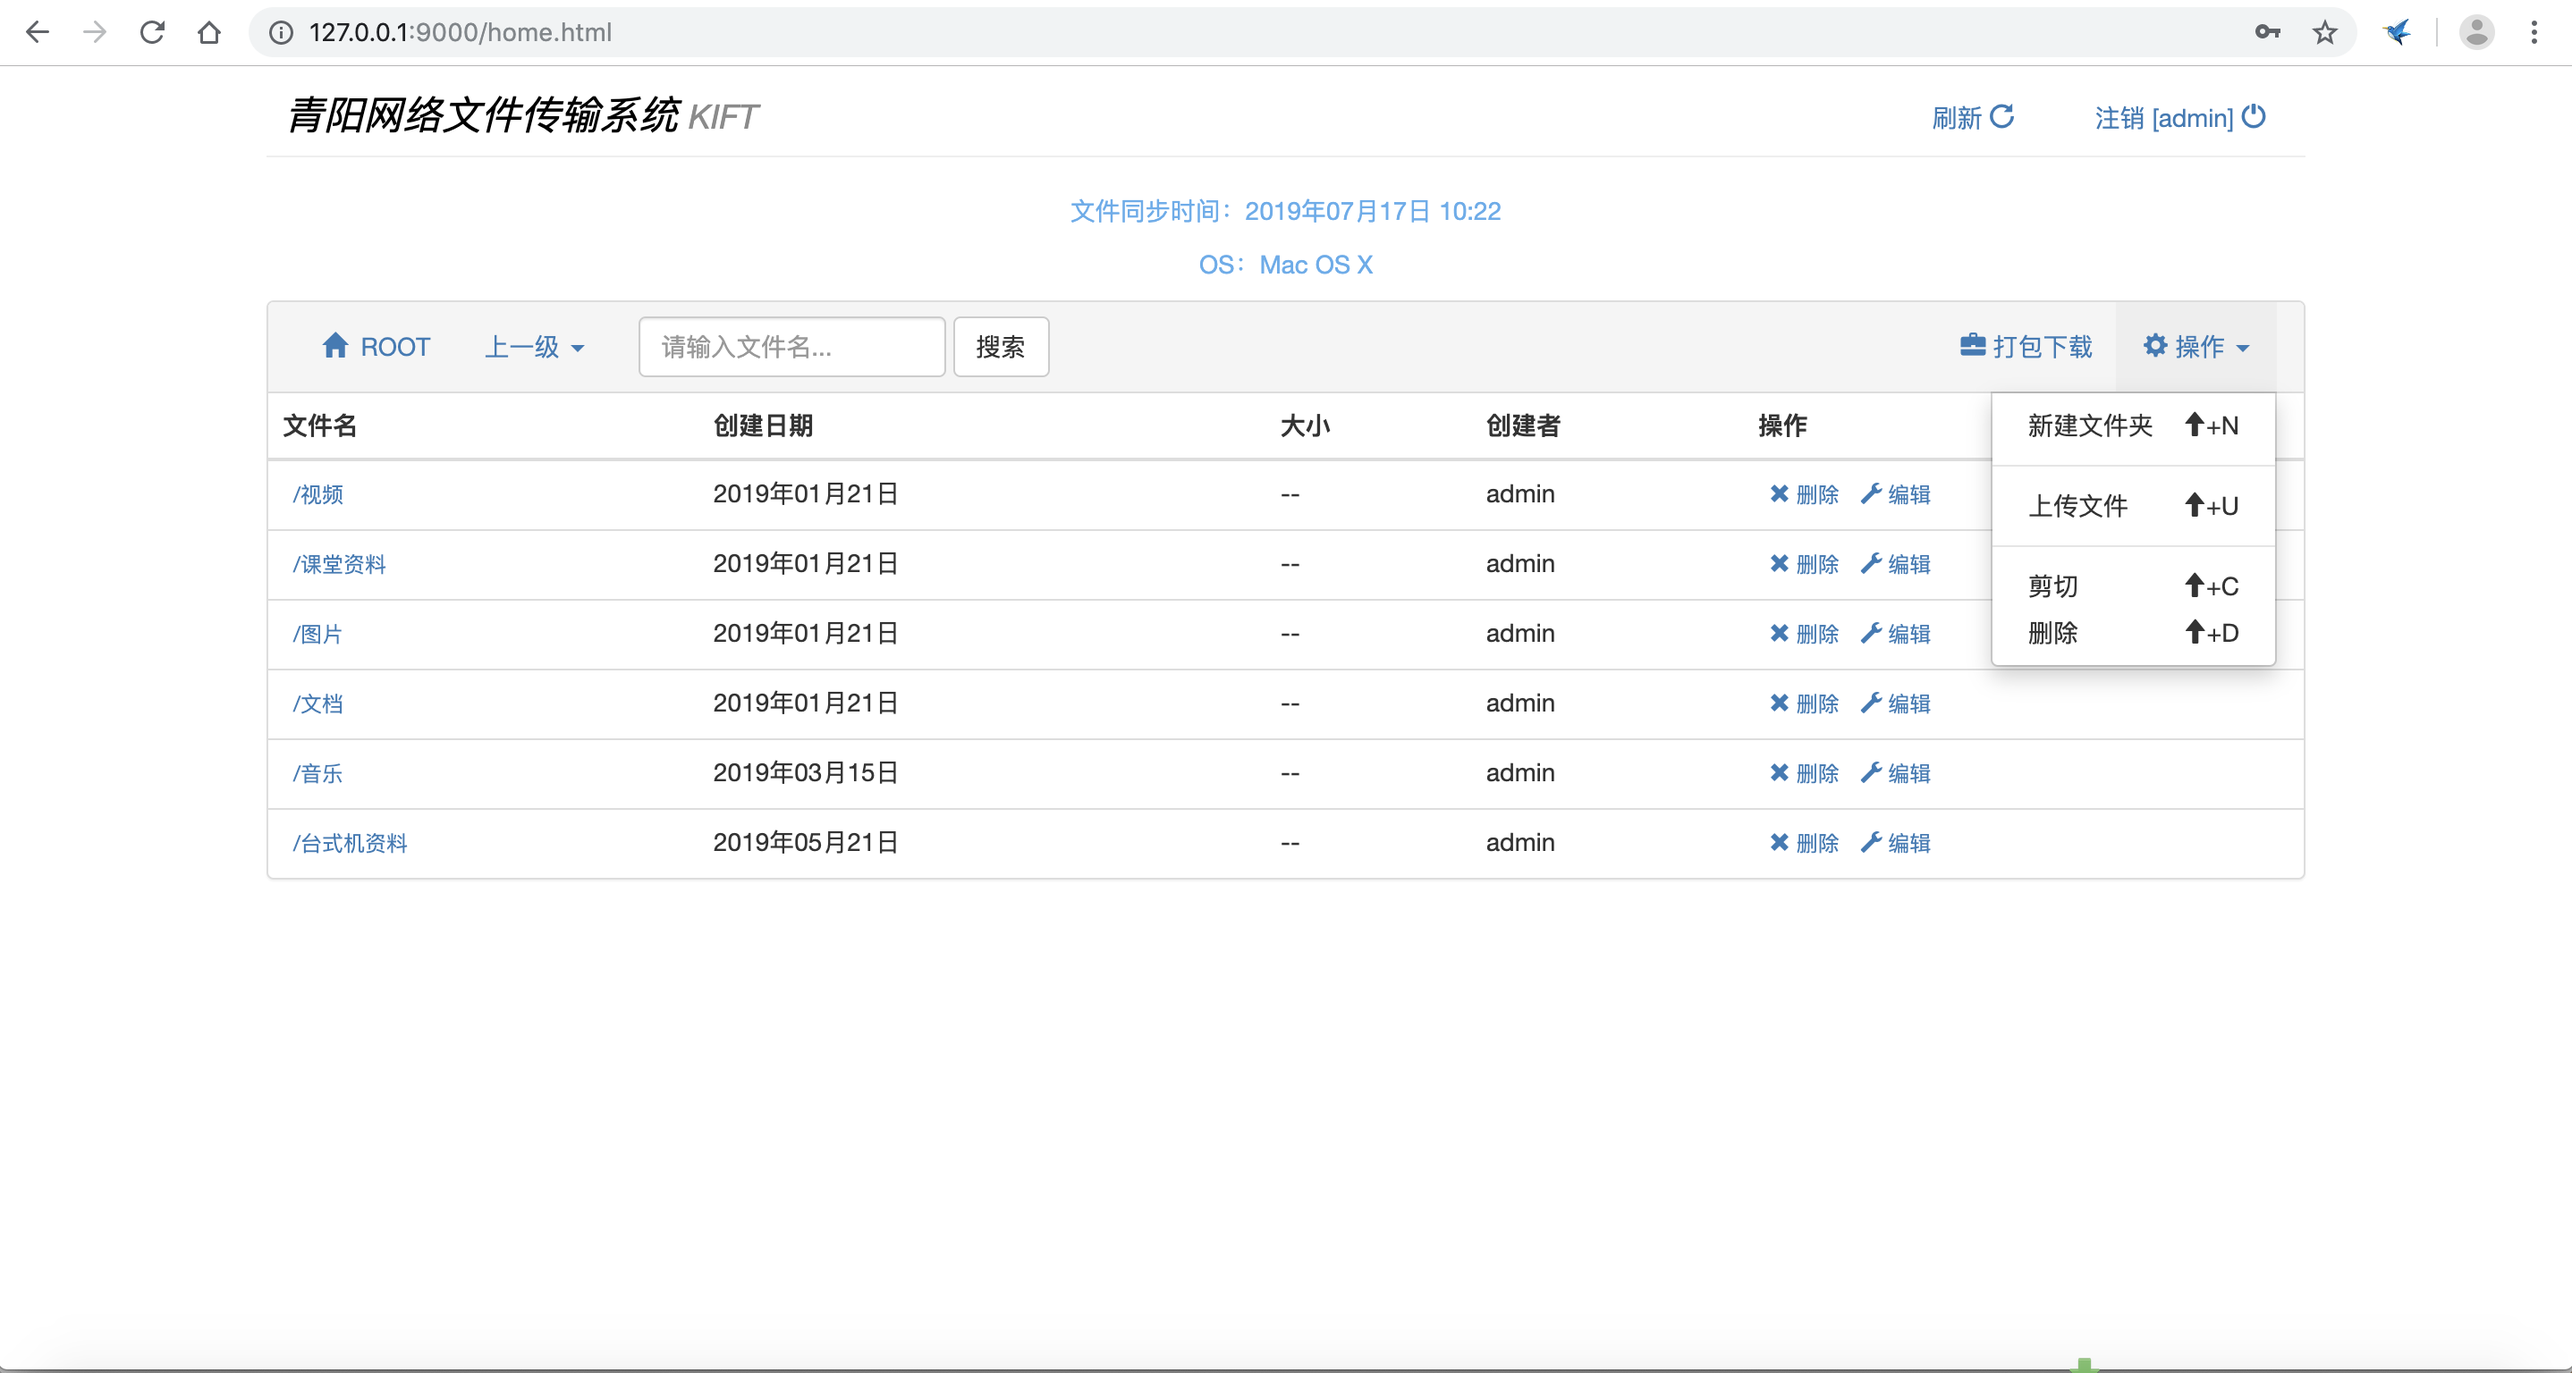
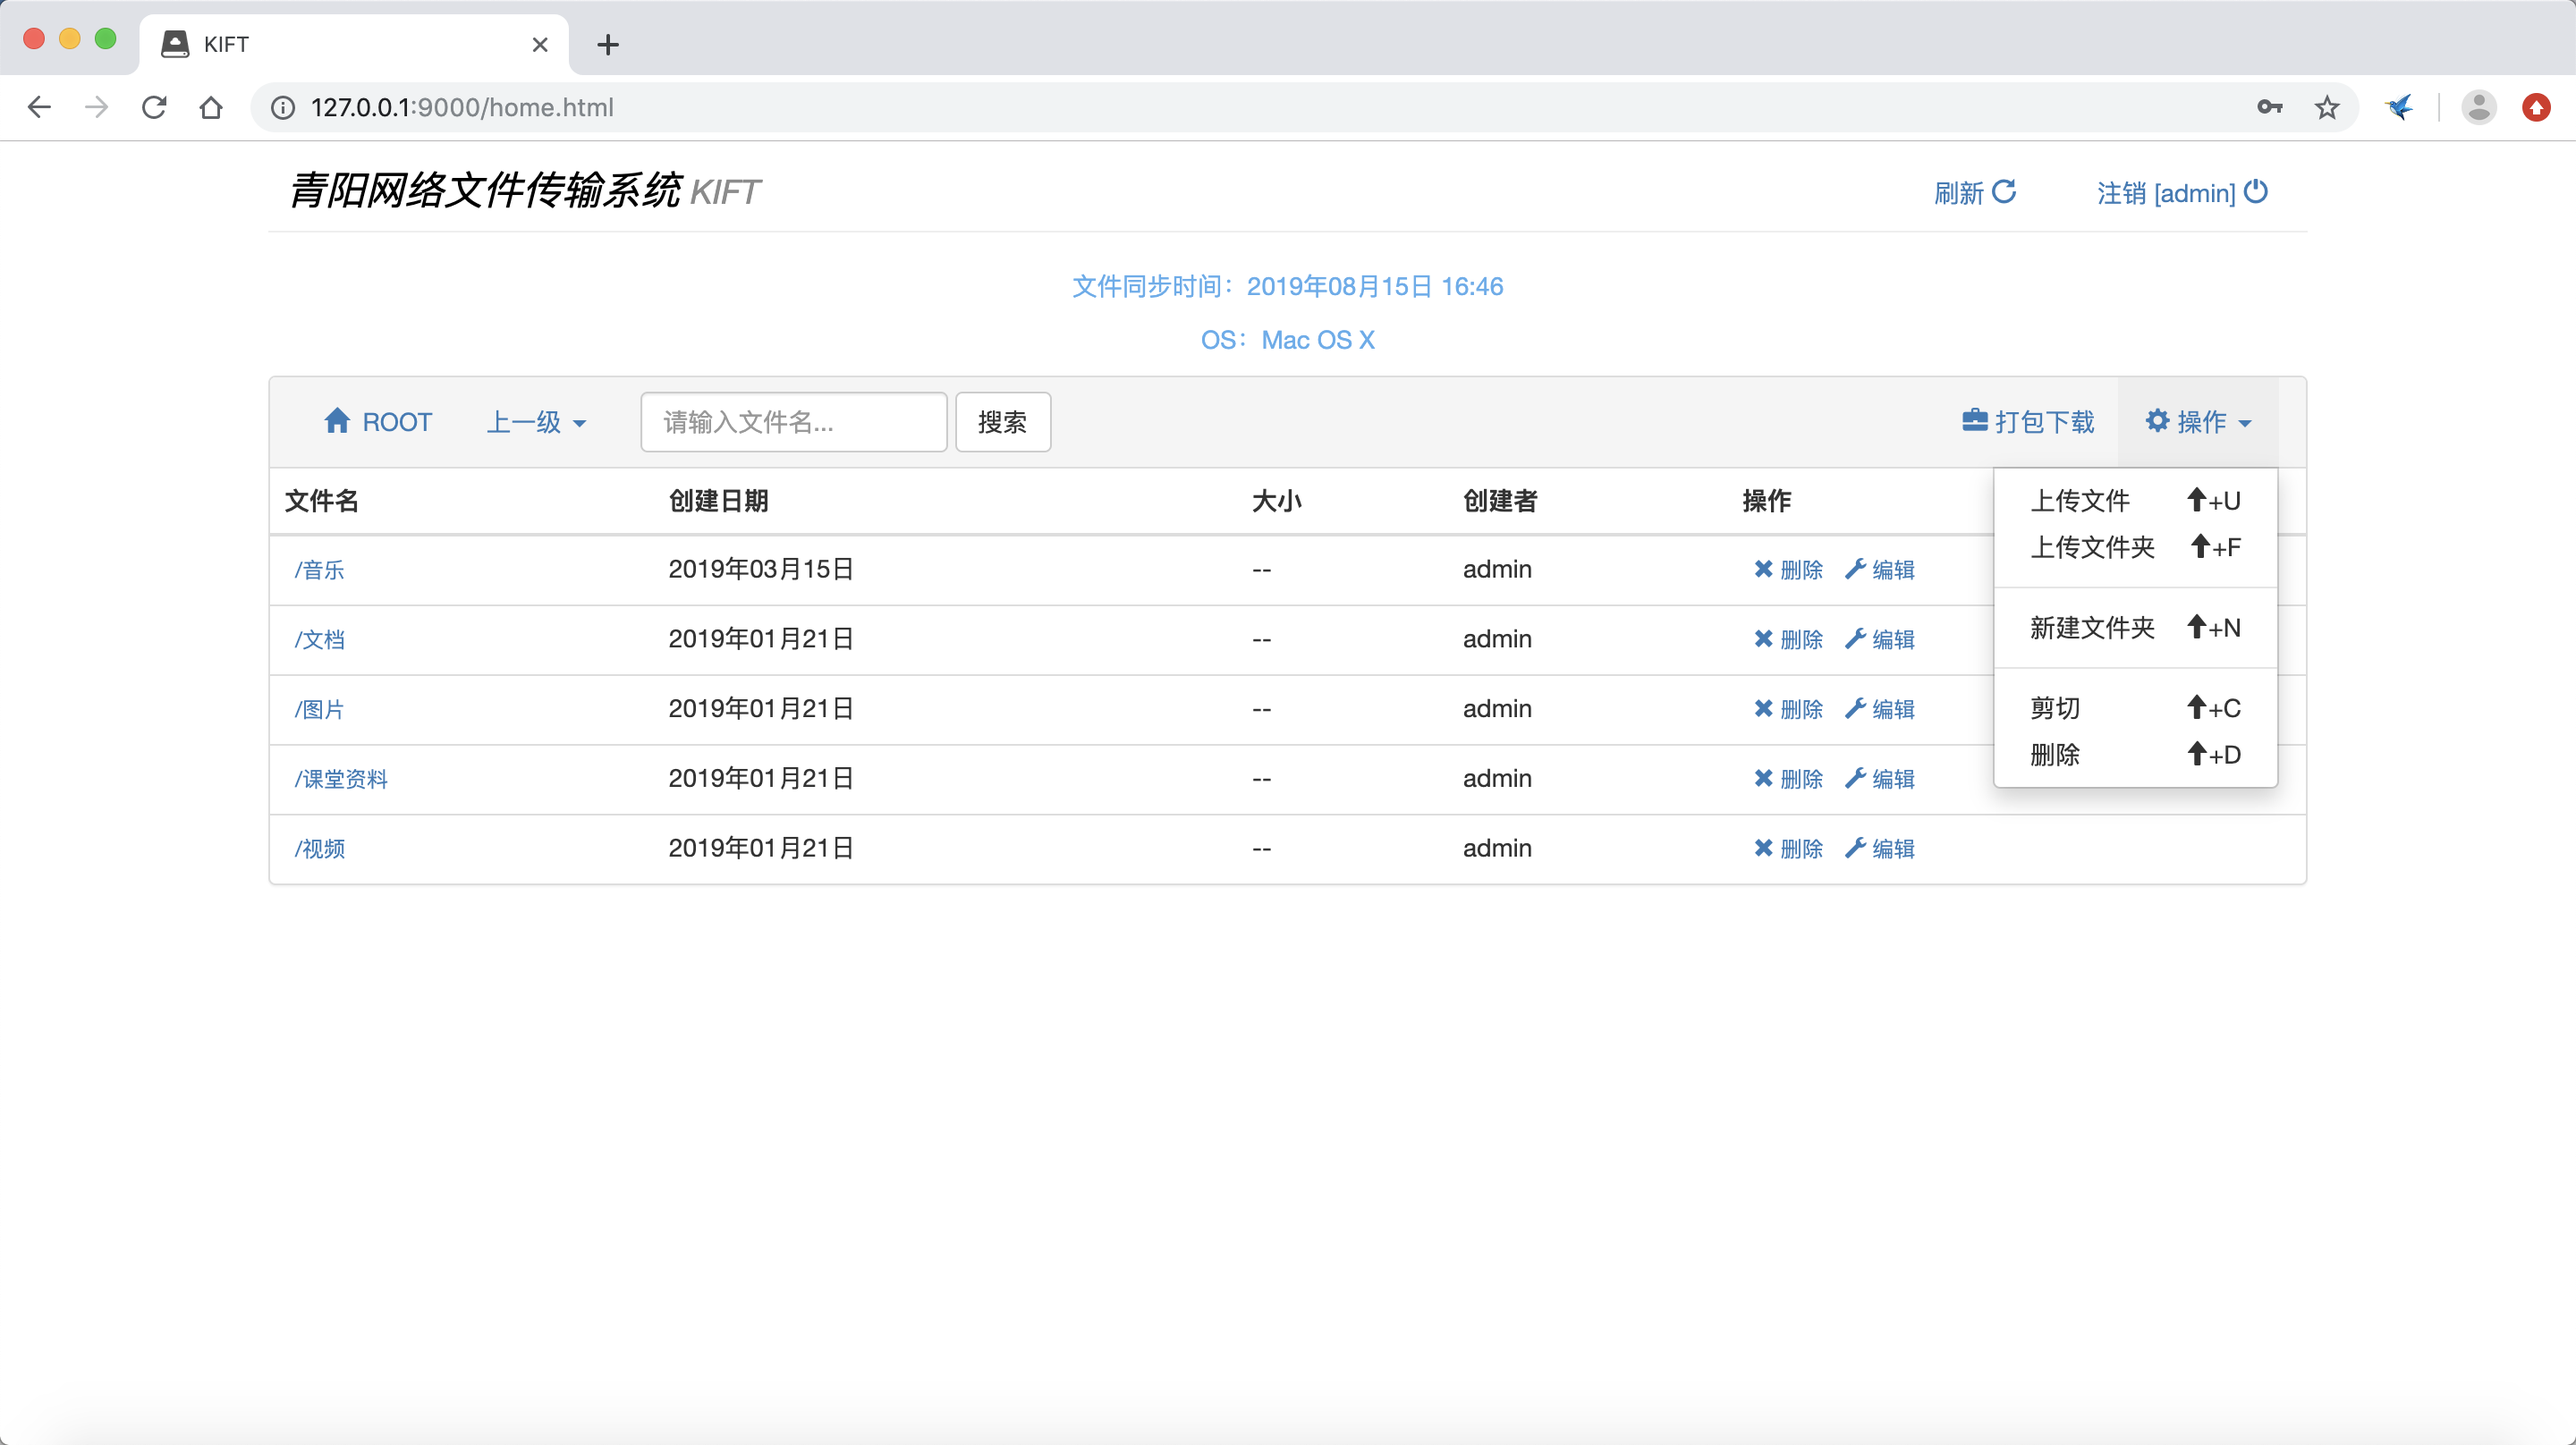
update to v1.0.20-release

diff --git a/QuickStart.html b/QuickStart.html
@@ -68,7 +68,7 @@
 		<div class="container marketing">
 
 			<div>
-				<em class="text-danger">* 提示：点击 <u>左侧的示例图片</u> 即可查看该步骤的详细操作过程（适用于全部操作系统）。</em>
+				<em class="text-danger">* 提示：点击 <u>左侧的示例图片</u> 也可以查看该步的详细步骤（这些操作步骤不区分操作系统）。</em>
 			</div>
 			<hr />
 
@@ -78,7 +78,9 @@
 					<p class="lead">
 						想要运行kiftd，JAVA运行环境必不可少。安装过程非常简单，只需点击鼠标即可完成。在您的电脑中安装它，请前往
 						<a href="https://www.java.com/zh_CN/" target="view_window">JAVA官方网站</a> 下载安装包，之后，双击安装包并“下一步”、“下一步”再“下一步”即可。<br />
-						<a href="javascript:void(0);" data-toggle="modal" data-target="#javaModal">为什么要安装JAVA？</a>
+						<small><a href="javascript:void(0);" data-toggle="modal" data-target="#javaModal"><span class="glyphicon glyphicon-question-sign" aria-hidden="true"></span> 为什么要安装JAVA……</a></small>
+						<br />
+						<small><a href="javascript:void(0);" onclick="show_step_one()"><span class="glyphicon glyphicon-info-sign" aria-hidden="true"></span> 查看详细步骤……</a></small>
 					</p>
 				</div>
 				<!--500 x 500 配图-->
@@ -94,6 +96,8 @@
 					<h4 class="featurette-heading">2.下载并解压kiftd</h4>
 					<p class="lead">当您的电脑中装有JAVA，便可以安装kiftd并运行它了。kiftd的安装更加简单——通俗来说就是“解压即用”： 1，
 						<a href="javascript:void(0);" data-toggle="modal" data-target="#downloadModal">下载kiftd</a> ；2，将下载好的ZIP压缩包解压至本地；3，双击运行其中的 <strong>“.jar”</strong> 应用程序来启动kiftd；4，点击位于主界面上的“开启”按钮。就是这样，无需任何复杂操作。
+						<br />
+						<small><a href="javascript:void(0);" onclick="show_step_two()"><span class="glyphicon glyphicon-info-sign" aria-hidden="true"></span> 查看详细步骤……</a></small>
 					</p>
 				</div>
 				<div class="col-md-5 col-md-pull-7">
@@ -108,7 +112,9 @@
 					<h4 class="featurette-heading">3.开始使用</h4>
 					<p class="lead">当服务器状态一栏变为“运行”后，您便可以打开您的 <strong>浏览器</strong> （推荐使用Chrome、FireFox等现代浏览器，如需使用国产高速浏览器，请使用“极速模式”浏览），并在地址栏中输入： <code>http://{您的IP地址（或本机地址127.0.0.1）}:{kiftd端口号}/</code> （例如“http://127.0.0.1:8080/”。其中，“kiftd端口号”可在kiftd主界面查看），这样，您便能够访问您的网盘主页了。接下来，请使用初始账户admin（密码：000000）登入系统，自由体验kiftd的全部功能！
 						<br />
-						<a href="javascript:void(0);" data-toggle="modal" data-target="#howToUseModal">了解更多？</a>
+						<small><a href="javascript:void(0);" data-toggle="modal" data-target="#howToUseModal"><span class="glyphicon glyphicon-question-sign" aria-hidden="true"></span> 了解更多……</a></small>
+						<br />
+						<small><a href="javascript:void(0);" onclick="show_step_three()"><span class="glyphicon glyphicon-info-sign" aria-hidden="true"></span> 查看详细步骤……</a></small>
 					</p>
 				</div>
 				<div class="col-md-5 col-md-pull-7">
@@ -167,7 +173,7 @@
 								<h4 class="list-group-item-heading">1. <span class="glyphicon glyphicon-save"></span> 从 GitHub 下载...</h4>
 								<p class="list-group-item-text">下载kiftd发行版，GitHub是知名的开源项目托管平台，可以直接进行下载。</p>
 							</a>
-							<a href="https://dev.tencent.com/u/kohgylw/p/kiftd/git/archive/master" class="list-group-item">
+							<a href="https://dev.tencent.com/u/kohgylw/p/kiftd/git/archive/v1.0.20-release.zip" class="list-group-item">
 								<h4 class="list-group-item-heading">2. <span class="glyphicon glyphicon-save"></span> 从 腾讯云 下载...</h4>
 								<p class="list-group-item-text">下载kiftd发行版，“腾讯云”是国内优质的开源项目托管平台，国内访问速度快。可以直接进行下载。</p>
 							</a>
@@ -212,7 +218,7 @@
 
 					</div>
 					<div class="modal-footer">
-						<button type="button" class="btn btn-default" data-dismiss="modal">Close</button>
+						<button type="button" class="btn btn-default" data-dismiss="modal">关闭</button>
 					</div>
 				</div>
 			</div>

diff --git a/News.html b/News.html
@@ -82,7 +82,20 @@
 			</div>
 			<hr />
 			
-			<h2>新版本v1.0.19 <span class="badge">New</span></h2>
+			<h2>新版本v1.0.20 <span class="badge">New</span></h2>
+			<h4>本次更新增加了较多用户们一直期待的、实用性较强的新功能，进一步增强kiftd的使用体验。推荐所有用户升级体验。</h4>
+			<ul>
+				<li>文件夹上传——现在，众多用户期待已久的上传文件夹功能现已上线。当用户同时具备“上传”和“新建文件夹”权限时，便可使用该功能进行文件夹的上传，同时还可以像新建文件夹一样自由设置上传后的文件夹的访问级别。详情请见《kiftd说明文档》。</li>
+				<li>PPT预览功能——现在，众多用户期待已久的PPT文档在线预览功能正式上线，方便办公使用。PPT预览功能提供ppt和pptx格式的在线打开和预览，且该功能无需额外安装任何插件，可免费用于商业用途。注：在线预览无法显示动画效果，部分复杂内容可能与官方PPT版式有所差异。</li>
+				<li>添加扩展存储区——现在，kiftd的文件系统允许用户额外添加最多31个“扩展存储区”路径。这些“扩展存储区”能够设置在不同的硬盘分区中并分担“主文件系统存储区”的存储压力，从而方便用户在不借助硬盘阵列技术的前提下使用多块硬盘来进一步扩展kiftd的可用容量。详情请见《kiftd说明文档》。</li>
+				<li>升级了文件列表的排序功能——文件列表现在可以对文件的各项属性进行切换式的双向（升序/降序）排序。</li>
+				<li>优化文件列表的显示顺序——文件列表现在将按照上传的时间由新至旧向下排列显示，更加贴合用户的查看习惯。</li>
+				<li>优化配置检查机制——当配置出现错误后系统将不再自动还原初配置文件，以便用户根据提示信息进行检查和修改。</li>
+				<li>进一步提高了文件系统的安全性和稳定性。</li>
+			</ul>
+			<br />
+			
+			<h2>新版本v1.0.19</h2>
 			<h4>本次更新增加了一些用户期待的新功能，并对已知的问题进行了修复，进一步增强kiftd的使用体验。推荐所有用户升级。</h4>
 			<ul>
 				<li>上传文件体积限制功能现已加入。该功能允许您为每个用户（或所有用户）设置其上传文件的最大体积限制，从而更加灵活地管理上传配额。设置方法详见随程序附带的《kiftd说明文档》。</li>

diff --git a/index.html b/index.html
@@ -75,7 +75,7 @@
 				<h2>青阳网络文件传输系统kiftd</h2>
 				<p>一款专门面向个人、团队和小型组织的私有网盘系统。无论是在家庭、学校还是在办公室，您都能立刻开始使用它！</p>
 				<p>
-					<a class="btn btn-lg btn-primary" data-toggle="modal" data-target="#downloadModal" href="javascript:void(0);" role="button">立即下载 <small>1.0.19</small> <span class="glyphicon glyphicon-save" aria-hidden="true"></span></a>
+					<a class="btn btn-lg btn-primary" data-toggle="modal" data-target="#downloadModal" href="javascript:void(0);" role="button">立即下载 <small>1.0.20</small> <span class="glyphicon glyphicon-save" aria-hidden="true"></span></a>
 				</p>
 				<br />
 				<p>
@@ -120,7 +120,7 @@
 							<div class="panel panel-primary">
 								<div class="panel-body">
 									<h1>专业、完善的特色功能</h1>
-									<p>您在寻找的功能：多格式视频在线播放、Word &amp; PDF &amp; TXT预览、图片批量查看、音乐循环播放、文件夹访问控制……这些，对kiftd来说都是标配。</p>
+									<p>您在寻找的功能：多格式视频在线播放、Word &amp; PDF &amp; PPT &amp; TXT预览、图片批量查看、音乐循环播放、文件夹访问控制、文件夹上传……这些，对kiftd来说都是标配。</p>
 								</div>
 							</div>
 						</div>
@@ -324,7 +324,7 @@
 								<h4 class="list-group-item-heading">1. <span class="glyphicon glyphicon-save"></span> 从 GitHub 下载...</h4>
 								<p class="list-group-item-text">下载kiftd发行版，GitHub是知名的开源项目托管平台，可以直接进行下载。</p>
 							</a>
-							<a href="https://dev.tencent.com/u/kohgylw/p/kiftd/git/archive/master" class="list-group-item">
+							<a href="https://dev.tencent.com/u/kohgylw/p/kiftd/git/archive/v1.0.20-release.zip" class="list-group-item">
 								<h4 class="list-group-item-heading">2. <span class="glyphicon glyphicon-save"></span> 从 腾讯云 下载...</h4>
 								<p class="list-group-item-text">下载kiftd发行版，“腾讯云”是国内优质的开源项目托管平台，国内访问速度快。可以直接进行下载。</p>
 							</a>

diff --git a/Functions.html b/Functions.html
@@ -122,7 +122,7 @@
 					</a>
 				</div>
 				<div class="media-body">
-					<h4 class="media-heading">无上传限制</h4> 1MB的文档和超过4GB的高清电影资源？均能够随意上传和下载。
+					<h4 class="media-heading">无上传限制</h4> 不足1MB的文档和超过5GB的高清电影资源？均能够随意上传和下载。
 				</div>
 			</div>
 			<div class="media">
@@ -132,7 +132,7 @@
 					</a>
 				</div>
 				<div class="media-body">
-					<h4 class="media-heading">主流商业网盘特有的高级功能甚至需要收费的功能</h4> 文件夹访问权限控制、多格式视频在线影院、音乐在线欣赏、图片文件在线预览、Word &amp; PDF &amp; TXT文档在线阅读...kiftd均一一具备，每一份kiftd均是“完全版”。
+					<h4 class="media-heading">主流商业网盘特有的高级功能甚至需要收费的功能</h4> 文件夹访问级别控制、视频在线影院、Word/PPT/TXT/PDF文档在线预览、音乐在线欣赏、图片库在线预览...kiftd均一一具备，每一份kiftd均是“完全版”。
 				</div>
 			</div>
 			<div class="media">
@@ -273,7 +273,7 @@
 							<div class="carousel-caption">
 								<div class="panel panel-default">
 									<div class="panel-body">
-										<p>Word or PDF预览：支持docx、pdf和txt格式，办公更加得心应手。</p>
+										<p>文档预览：支持docx、pdf、ppt、pptx和txt格式，办公更加得心应手。</p>
 									</div>
 								</div>
 							</div>
